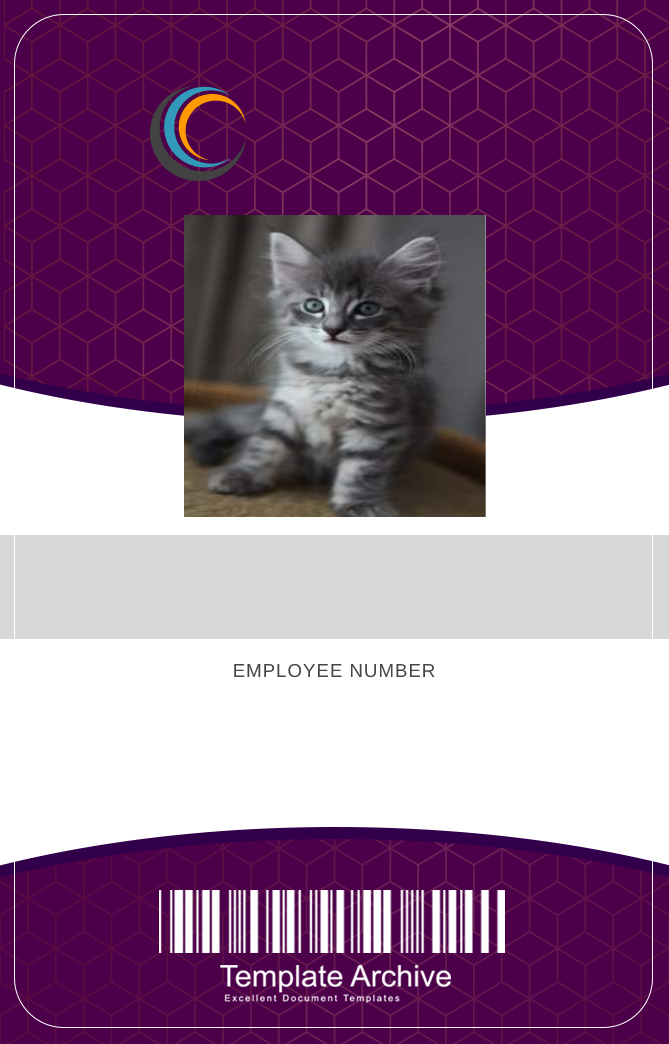
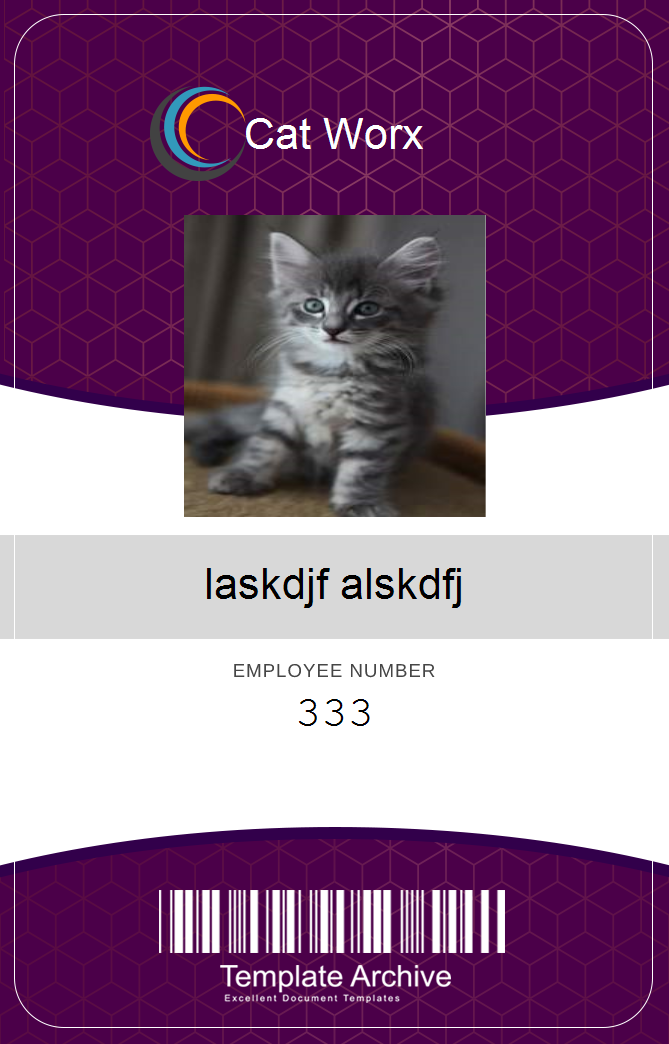
finished badge

Changed region(s): [[0.299, 0.5211, 0.6876, 0.5824], [0.3587, 0.092, 0.6278, 0.1533], [0.4484, 0.6743, 0.568, 0.705]]

diff --git a/Util.cs b/Util.cs
@@ -84,6 +84,15 @@ namespace CatWorx.BadgeMaker
             int EMPLOYEE_ID_WIDTH = BADGE_WIDTH;
             int EMPLOYEE_ID_HEIGHT = 100;
 
+            // Styling for text
+            // Graphics Objects
+            StringFormat format = new StringFormat();
+            format.Alignment = StringAlignment.Center;
+            int FONT_SIZE = 32;
+            Font font = new Font("Arial", FONT_SIZE);
+            Font monoFont = new Font("Courier New", FONT_SIZE);
+
+            SolidBrush brush = new SolidBrush(Color.Black);
 
             //
             using(WebClient client = new WebClient())
@@ -107,10 +116,54 @@ namespace CatWorx.BadgeMaker
                    graphic.DrawImage(background, new Rectangle(0,0,BADGE_WIDTH, BADGE_HEIGHT));
                    // Insert employee photo
                    graphic.DrawImage(photo, new Rectangle(PHOTO_START_X, PHOTO_START_Y, PHOTO_WIDTH, PHOTO_HEIGHT ));
-                   // Save the badge
-                   badge.Save("data/employeeBadge.png");
 
-    
+                   // Company Name
+                   graphic.DrawString(
+                       employees[i].GetCompanyName(),
+                       font,
+                       new SolidBrush(Color.White),
+                       new Rectangle(
+                           COMPANY_NAME_START_X,
+                           COMPANY_NAME_START_Y,
+                           BADGE_WIDTH,
+                           COMPANY_NAME_WIDTH
+                       ),
+                       format
+                   );
+
+                   // Employee name
+                    graphic.DrawString(
+                        employees[i].GetName(),
+                        font,
+                        brush,
+                        new Rectangle(
+                            EMPLOYEE_NAME_START_X,
+                            EMPLOYEE_NAME_START_Y,
+                            BADGE_WIDTH,
+                            EMPLOYEE_NAME_HEIGHT
+                        ),
+                        format
+                    );
+
+                    // Employee ID
+                    graphic.DrawString(
+                        employees[i].GetId().ToString(),
+                        monoFont,
+                        brush,
+                        new Rectangle(
+                            EMPLOYEE_ID_START_X,
+                            EMPLOYEE_ID_START_Y,
+                            EMPLOYEE_ID_WIDTH,
+                            EMPLOYEE_ID_HEIGHT
+                        ),
+                        format
+                    );
+
+                   
+                   // Save the badge
+                   string template = "data/{0}_badge.png";
+                   badge.Save(string.Format(template, employees[i].GetId()));
+
                 }
             }
         

diff --git a/Employee.cs b/Employee.cs
@@ -25,5 +25,10 @@ namespace CatWorx.BadgeMaker
             return PhotoUrl;
         }
 
+        public string GetCompanyName()
+        {
+            return "Cat Worx";
+        }
+
     }
 }
